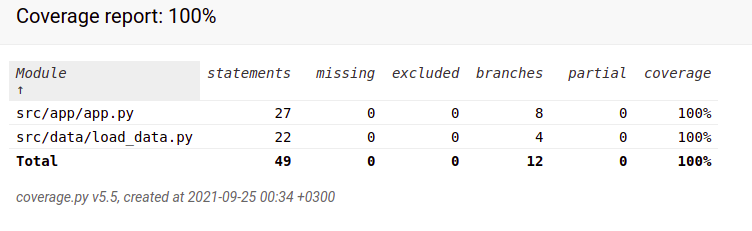
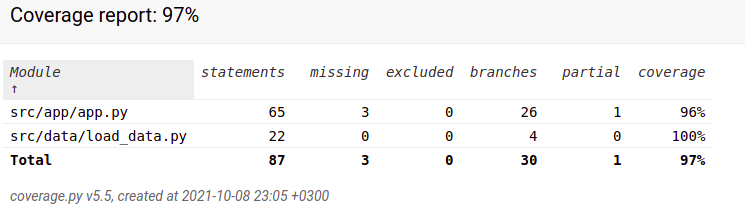
dokumentaatiota päivitettyä, koodia siivottu, käyttöliittymää päivitetty

diff --git a/src/ui/ui.py b/src/ui/ui.py
@@ -21,7 +21,7 @@ def display_gui(app):
     Metodi piirtää grafiikan näytölle.
     """
     root = Tk()
-    root.geometry('600x300')
+    root.geometry('610x308')
     frame = Frame(root)
     frame.grid()
     canvas_left = Canvas(root, width=width, height=height)
@@ -33,36 +33,34 @@ def display_gui(app):
     sample_imgs = create_images(app.test_samples)
     i = 0
     j = 0
-    while j < 3:
+    while j < 9:
         k = 0
-        while k < 3:
-            Button(canvas_right, anchor="nw", image=sample_imgs[i], command=lambda i=i: process_clicked_image(app, root, canvas_left, i)).grid(row=j, column = k)
+        while k < 9:
+            Button(canvas_right, image=sample_imgs[i], command=lambda i=i: process_clicked_image(app, canvas_left, i)).grid(row=j, column = k)
             k += 1
             i += 1
         j += 1
     root.mainloop()
-def create_left_side(app, root, canvas_left, imgs, input_image):
+def create_left_side(app, canvas_left, imgs, input_image):
+    """
+    Metodi graafisen käyttöliittymän vasemman puolen piirtämiseen.
+    """
 
     i = 0
     x = 40
     y = 20
     while i < len(imgs):
-        label = Label(image=imgs[i])
         canvas_left.create_image(x, y, anchor="nw", image=imgs[i])
         add_text(app.nearest_neighbors[i][1], x+10, y+30)
         x += 30
         i += 1
-    canvas_left.create_image(width/2-input_img_size/2, height/2, anchor="nw", image=input_image)
-    add_text(app.input_image[1], width/2-input_img_size/2 + input_img_size/2-5, height/2 
-             + input_img_size + 20)
-    if app.input_image[1] == app.guess[0]:
-        add_text("Veikkaus: " + str(app.guess[0]) + ", varmuus: " + str(int(round(app.guess[1]/7*100, 0)))
-                 + "%", 5, height/2 + input_img_size + 40)
-    else:
-        add_text("Veikkaus: " + str(app.guess[0]), 5, height/2 + input_img_size + 40)
+    canvas_left.create_image(width/2-input_img_size/2, height/2-input_img_size/2, anchor="nw", image=input_image)
+    add_text(app.input_image[1], width/2-input_img_size/2 + input_img_size/2-5, height/2-input_img_size/2
+             + input_img_size + 10)
+    add_text("Koneen veikkaus: " + str(app.guess[0]), 5, height-30)
+    add_text("Onnistuminen: " + str(int(round(app.success_rate, 0))) + "%  ", 5, height-13)
     canvas_left.update()
-def process_clicked_image(app, root, canvas_left, i):
-    print(i)
+def process_clicked_image(app, canvas_left, i):
     app.input_image = app.test_samples[i]
     app.process_image()
     array = app.test_samples[i][0]
@@ -70,7 +68,7 @@ def process_clicked_image(app, root, canvas_left, i):
     input_image = input_image.zoom(zoom)
     photos.append(input_image)
     imgs = create_images(app.nearest_neighbors)
-    create_left_side(app, root, canvas_left, imgs, input_image)
+    create_left_side(app, canvas_left, imgs, input_image)
 def create_images(arrays):
     images = []
     i = 0

diff --git a/src/app/app.py b/src/app/app.py
@@ -1,4 +1,5 @@
 import math
+import time
 from data.load_data import load_traindata, load_testdata
 from ui.ui import display_gui
 
@@ -10,23 +11,33 @@ class App:
         self.traindata = load_traindata()
         self.testdata = load_testdata()
         self.nearest_neighbors = []
-        self.test_samples = self.testdata[:9]
+        self.test_samples = self.testdata[:100]
         self.input_image = []
         self.guess = []
+        self.right_answers = 0
+        self.guesses = 0
+        self.success_rate = 0.0
     def start(self):
+        """
+        Metodi sovelluksen käynnistämiseen.
+        """
         i = 0
         x = 0
         display_gui(self)
+        # Loop for testing the accuracy
+        # comment off the display_gui(self) above if you want to try this
+        #starting_time = time.time()
         #for image in self.testdata:
         #    self.input_image = image
-        #    
+        #    self.process_image()
         #    if self.guess[0] == self.input_image[1]:
         #        x += 1
         #    i += 1
-        #    print(str(x/i*100) + "%")
-        #    display_gui(self)
-        #    if i >= 1:
+        #    print(str(round(x/i*100, 2)) + "%")
+        #    if i >= 100:
         #        break
+        #end_time = time.time()
+        #print("Aikaa kului ", round(end_time-starting_time, 2), " sekuntia")
 
     def process_image(self):
         """
@@ -55,6 +66,10 @@ class App:
                     self.nearest_neighbors = self.nearest_neighbors[:7]
 
         self.guess = self.calculate_the_guess()
+        self.guesses += 1
+        if self.guess[0] == self.input_image[1]:
+            self.right_answers += 1
+        self.success_rate = self.right_answers/self.guesses*100
     def distance_calculation(self, row1, row2):
         """
         Metodi laskee yksittäisen rivin etäisyyden testattavan kuvan
@@ -68,6 +83,9 @@ class App:
         return math.sqrt(distance)
 
     def calculate_the_guess(self):
+        """
+        Metodi koneen veikkauksen laskemiseen.
+        """
         nearest = {}
         for neighbor in self.nearest_neighbors:
             if neighbor[1] not in nearest:

diff --git a/src/tests/app_test.py b/src/tests/app_test.py
@@ -14,6 +14,16 @@ class TestApp(unittest.TestCase):
         self.assertGreater(distance2, distance1)
     
     def test_process_image(self):
-        img = self.app.testdata[0]
-        result = self.app.process_image(img)
-        self.assertEqual(len(result[1]), 7)
+        self.app.input_image = self.app.testdata[0]
+        self.app.process_image()
+        self.assertEqual(len(self.app.nearest_neighbors), 7)
+        self.assertGreater(self.app.nearest_neighbors[1][2],self.app.nearest_neighbors[0][2])
+        self.assertGreater(self.app.nearest_neighbors[2][2],self.app.nearest_neighbors[1][2])
+        self.assertGreater(self.app.nearest_neighbors[3][2],self.app.nearest_neighbors[2][2])
+        self.assertGreater(self.app.nearest_neighbors[4][2],self.app.nearest_neighbors[3][2])
+        self.assertGreater(self.app.nearest_neighbors[5][2],self.app.nearest_neighbors[4][2])
+        self.assertGreater(self.app.nearest_neighbors[6][2],self.app.nearest_neighbors[5][2])
+    def test_calculate_guess(self):
+        self.app.input_image = self.app.testdata[0]
+        self.app.process_image()
+        self.assertEqual(len(self.app.calculate_the_guess()), 2)

diff --git a/src/index.py b/src/index.py
@@ -6,7 +6,6 @@ def main():
     """
     app = App()
     app.start()
-    
 
 if __name__ == "__main__":
     main()

diff --git a/dokumentaatio/tuntikirjanpito.md b/dokumentaatio/tuntikirjanpito.md
@@ -11,4 +11,7 @@
 | 29.9. | 4    | Piirto-ominaisuuden edistämistä, bytearrayn koon muuttamista                       |
 | 30.9. | 4    | Piirto-ominaisuuden hylkääminen ja "kuvavalikon" aloittaminen                      |
 | 2.10. | 2    | Listan valmiin järjestämisalgoritmin poistaminen, testausdokumentin aloittaminen   |
+| 6.10. | 3    | Käyttöliittymän muokkausta                                                         |
+| 7.10. | 4    | Koodin rakenteen muutoksia, yleisiä päivityksiä ja parannuksia                     |
+| 8.10. | 4    | Koodikatselmus, tarkkuustestien suorittamista, dokumentaation päivittämistä        |
 | Yht.  | 16   |                                                                                    |

diff --git a/dokumentaatio/viikkoraportit/viikko5.md b/dokumentaatio/viikkoraportit/viikko5.md
@@ -1,0 +1,19 @@
+## Mitä olen tehnyt
+
+Graafisen käyttöliittymän päivittämistä rakenteellisesti ja uuden toiminnon luominen käyttöliittymään.
+
+## Ohjelman edistyminen
+
+Ohjelma on edistynyt hyvin. Käyttäjän toiminta saatiin nyt ohjelmaan mukaan.
+
+## Mitä opin tällä viikolla
+
+Tällä viikolla opin miten Tkinterin avulla jaetaan ohjelmaa eri osiin ja saadaan toiminnallisuutta liitettyä osaksi käyttöliittymää.
+
+## Mikä jäi epäselväksi / muut vaikeudet
+
+Vielä on hieman epäselvää miten Tkinterin Grid-työkalu toimii, mutta lopputulos oli silti odotetunlainen.
+
+## Mitä teen seuraavaksi
+
+Seuraavana vuorossa on yleisiä parannuksia koodiin, ohjelma itsessään alkaa olla jo hyvällä mallilla.

diff --git a/README.md b/README.md
@@ -14,6 +14,7 @@ Projektissa toteutetaan ohjelma käsinkirjoitetun numeron tunnistamiseen.
 [Viikko 2](https://github.com/jeesp/tiralabra/blob/main/dokumentaatio/viikkoraportit/viikko2.md)
 [Viikko 3](https://github.com/jeesp/tiralabra/blob/main/dokumentaatio/viikkoraportit/viikko3.md)
 [Viikko 4](https://github.com/jeesp/tiralabra/blob/main/dokumentaatio/viikkoraportit/viikko4.md)
+[Viikko 5](https://github.com/jeesp/tiralabra/blob/main/dokumentaatio/viikkoraportit/viikko5.md)
 
 ## Käyttöohje testaamiseen
 
